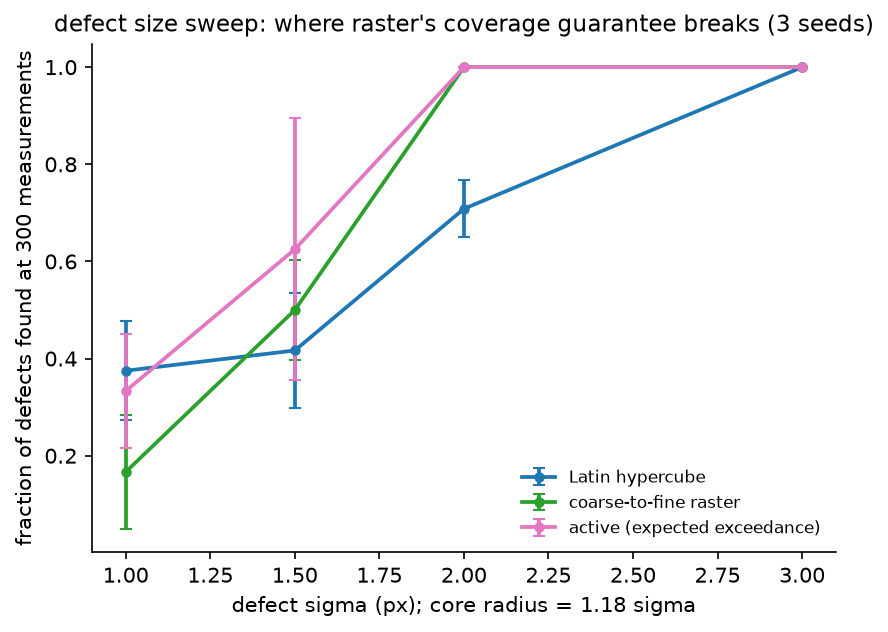
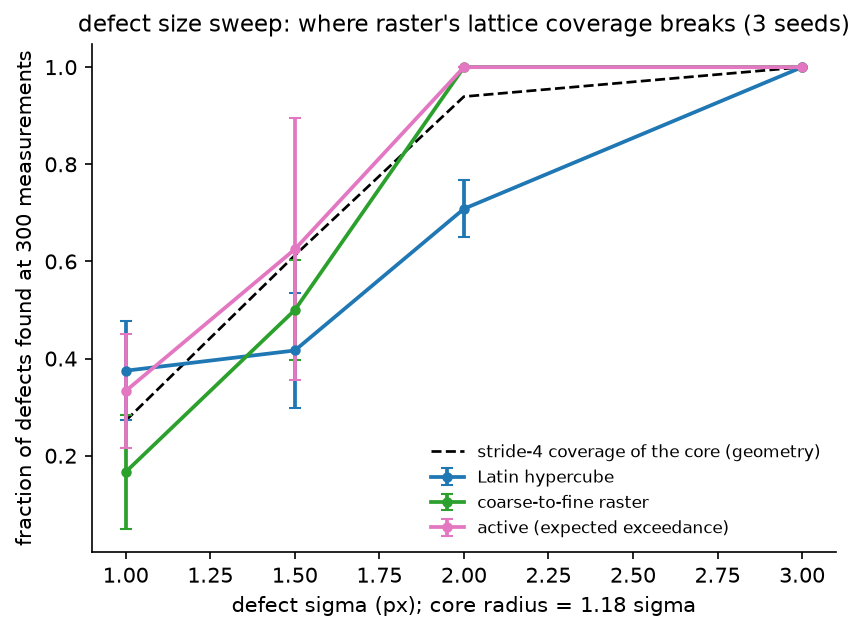
feat: lattice coverage geometry for the raster defect-search story
Add activescan.metrics.lattice_coverage_fraction, the geometric hit
probability of a completed raster pass against a defect core, pinned by
a unit test at the values quoted in the docs (94/61/27 percent for the
stride-4 pass at defect sigma 2.0/1.5/1.0; guarantee only from sigma
2.40). Overlay the prediction on the size-sweep figure so raster is
shown tracking geometry while the hunt beats it below the guarantee
point.

diff --git a/src/activescan/metrics.py b/src/activescan/metrics.py
@@ -64,6 +64,34 @@ def measurements_to_target(budgets: np.ndarray, errors: np.ndarray, target: floa
     return float(b0 + frac * (b1 - b0))
 
 
+def lattice_coverage_fraction(stride: float, radius: float, n: int = 1200) -> float:
+    """Fraction of the plane within a radius of a square lattice of points.
+
+    This is the geometric hit probability for a defect whose core radius is
+    ``radius`` against a completed raster pass of the given stride, assuming
+    the defect centre falls uniformly. It reaches 1.0 exactly at
+    ``radius >= stride / sqrt(2)`` (the half-diagonal of a lattice cell),
+    which is the only radius at which a raster pass carries a guarantee.
+
+    Args:
+        stride: Lattice spacing in pixels.
+        radius: Capture radius in pixels (e.g. the defect core radius).
+        n: Grid resolution per cell axis for the numerical estimate.
+
+    Returns:
+        Covered area fraction in [0, 1].
+    """
+    if stride <= 0:
+        raise ValueError("stride must be positive")
+    if radius >= stride * np.sqrt(0.5):
+        return 1.0
+    axis = (np.arange(n) + 0.5) / n * stride
+    xx, yy = np.meshgrid(axis, axis)
+    corners = [(0.0, 0.0), (0.0, stride), (stride, 0.0), (stride, stride)]
+    d = np.minimum.reduce([np.hypot(xx - cx, yy - cy) for cy, cx in corners])
+    return float(np.mean(d <= radius))
+
+
 def defect_hit_steps(scene: ScanScene, order: np.ndarray) -> np.ndarray:
     """First acquisition step (1-based) at which each defect was hit.
 

diff --git a/src/activescan/plots.py b/src/activescan/plots.py
@@ -286,10 +286,26 @@ def plot_sweep(
     ylabel: str,
     title: str,
     logy: bool = False,
+    overlay: tuple[list[float], list[float], str] | None = None,
 ) -> None:
-    """Generic per-strategy sweep plot (noise sweep, sparsity sweep)."""
+    """Generic per-strategy sweep plot (noise sweep, sparsity sweep).
+
+    Args:
+        result: Benchmark JSON dictionary.
+        path: Output path.
+        x_key: Key of the x-axis values in the result.
+        xlabel: X-axis label.
+        ylabel: Y-axis label.
+        title: Plot title.
+        logy: Log-scale the y axis.
+        overlay: Optional (xs, ys, label) reference line drawn dashed black,
+            e.g. a geometric prediction to compare the measured curves with.
+    """
     fig, ax = plt.subplots(figsize=(6.4, 4.4))
     xs = result[x_key]
+    if overlay is not None:
+        ox, oy, olabel = overlay
+        ax.plot(ox, oy, color="k", ls="--", lw=1.3, label=olabel, zorder=1)
     for name, block in result["strategies"].items():
         mean = np.array(block["mean"])
         std = np.array(block["std"])

diff --git a/tests/test_metrics.py b/tests/test_metrics.py
@@ -7,6 +7,7 @@ from activescan import (
     SceneParams,
     defect_hit_steps,
     defects_found_curve,
+    lattice_coverage_fraction,
     mae,
     make_scene,
     measurements_to_target,
@@ -71,3 +72,19 @@ def test_defects_found_curve_monotone():
 def test_no_defects_gives_empty_metrics():
     scene = make_scene(SceneParams(grid=32, n_defects=0, seed=0))
     assert defect_hit_steps(scene, np.array([0, 1])).size == 0
+
+
+def test_lattice_coverage_fraction_geometry():
+    """The numbers quoted in RESULTS.md section 5 are pinned here."""
+    core = np.sqrt(2.0 * np.log(2.0))  # half-amplitude core radius per unit sigma
+    # guarantee begins exactly at the half-diagonal of a stride cell
+    assert lattice_coverage_fraction(4.0, 4.0 * np.sqrt(0.5) + 1e-9) == 1.0
+    assert lattice_coverage_fraction(4.0, 3.0 * core) == 1.0
+    # sub-guarantee coverage fractions used in the docs (sigma 2.0, 1.5, 1.0)
+    assert lattice_coverage_fraction(4.0, 2.0 * core) == pytest.approx(0.939, abs=0.005)
+    assert lattice_coverage_fraction(4.0, 1.5 * core) == pytest.approx(0.612, abs=0.005)
+    assert lattice_coverage_fraction(4.0, 1.0 * core) == pytest.approx(0.272, abs=0.005)
+    # monotone in radius, degenerate at zero
+    assert lattice_coverage_fraction(4.0, 0.0) == 0.0
+    with pytest.raises(ValueError):
+        lattice_coverage_fraction(0.0, 1.0)

diff --git a/scripts/make_figures.py b/scripts/make_figures.py
@@ -22,7 +22,7 @@ from activescan import (
     make_scene,
     run_strategy,
 )
-from activescan.metrics import defect_hit_steps
+from activescan.metrics import defect_hit_steps, lattice_coverage_fraction
 from activescan.plots import (
     STRATEGY_LABELS,
     animate_run,
@@ -151,13 +151,18 @@ def main() -> int:
         "fraction of defects found at 300 measurements",
         "defect sparsity sweep (3 seeds)",
     )
+    size_result = _load("size_sweep.json")
+    core = float(np.sqrt(2.0 * np.log(2.0)))
+    sigmas = [float(s) for s in size_result["defect_sigmas"]]
+    coverage = [lattice_coverage_fraction(4.0, core * s) for s in sigmas]
     plot_sweep(
-        _load("size_sweep.json"),
+        size_result,
         FIG / "size_sweep.png",
         "defect_sigmas",
         "defect sigma (px); core radius = 1.18 sigma",
         "fraction of defects found at 300 measurements",
-        "defect size sweep: where raster's coverage guarantee breaks (3 seeds)",
+        "defect size sweep: where raster's lattice coverage breaks (3 seeds)",
+        overlay=(sigmas, coverage, "stride-4 coverage of the core (geometry)"),
     )
     plot_misspecification(_load("misspecification.json"), FIG / "misspecification.png")
     plot_fairness(_load("fairness.json"), FIG / "fairness.png")

diff --git a/src/activescan/__init__.py b/src/activescan/__init__.py
@@ -12,6 +12,7 @@ from .io import load_external, load_run, load_scene, save_run, save_scene
 from .metrics import (
     defect_hit_steps,
     defects_found_curve,
+    lattice_coverage_fraction,
     mae,
     measurements_to_target,
     rmse,
@@ -47,6 +48,7 @@ __all__ = [
     "gp_reconstruct",
     "interp_reconstruct",
     "kernel_matrix",
+    "lattice_coverage_fraction",
     "lhs_design",
     "load_external",
     "load_run",